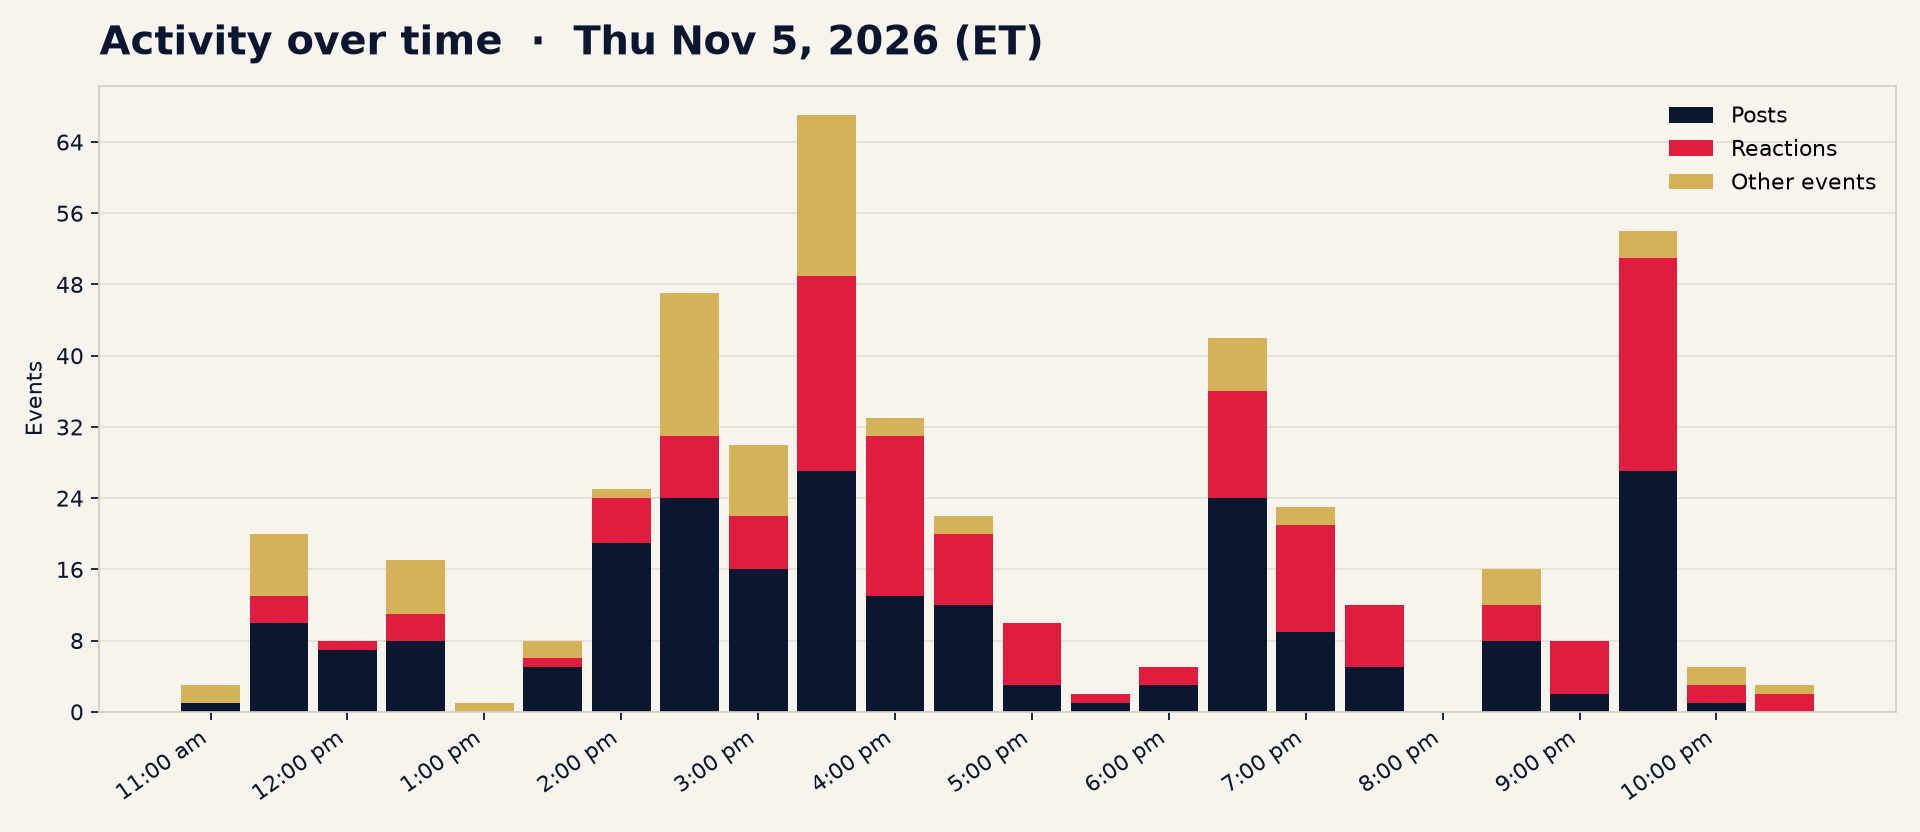
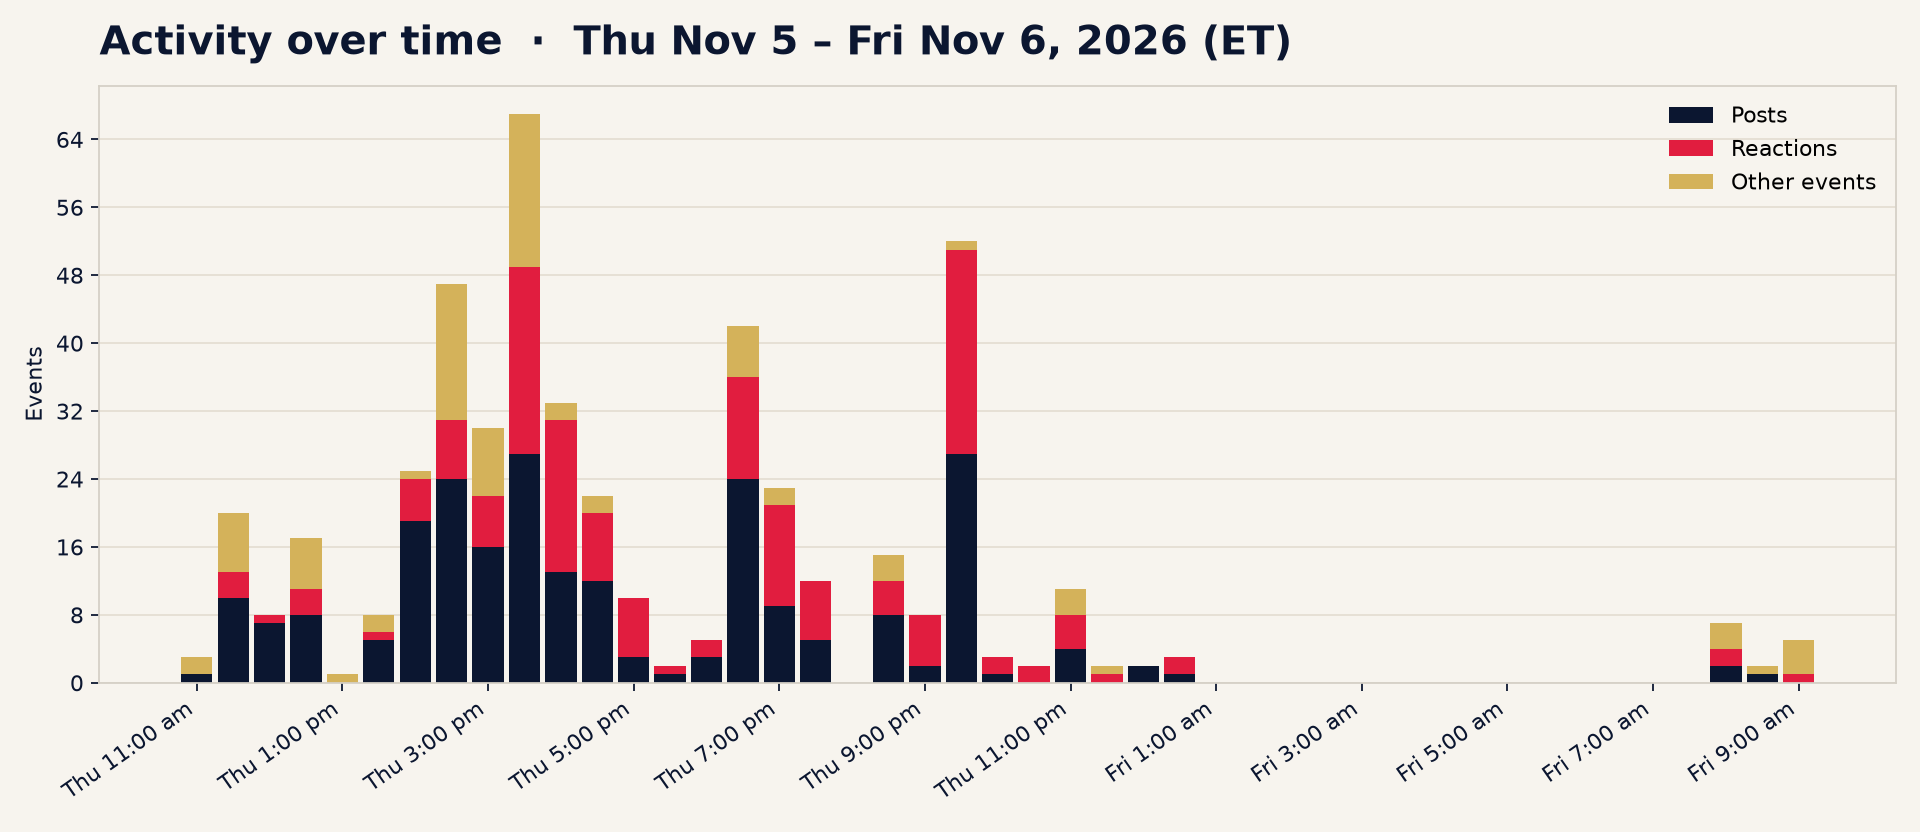
Refresh America Party recap through Friday morning Nov 6
Update the officers summary and charts from a full X Chat scrape
(487 events, 235 posts) while keeping the unchanged 13-plank draft.

diff --git a/america-party/index.html b/america-party/index.html
@@ -7,7 +7,7 @@
 <link rel="preconnect" href="https://fonts.gstatic.com" crossorigin>
 <link href="https://fonts.googleapis.com/css2?family=Archivo+Black&family=Manrope:wght@400;500;700;800&display=swap" rel="stylesheet">
 <title>America Party · Officers Recap</title>
-<meta name="description" content="America Party Officers X Chat recap — 13-plank platform draft, conversation summary, charts, and branding imagery from Thu Nov 5, 2026, 11:28 AM–10:34 PM ET.">
+<meta name="description" content="America Party Officers X Chat recap — 13-plank platform draft, conversation summary, charts, and branding imagery from Thu Nov 5, 11:28 AM ET through Fri Nov 6, 9:26 AM ET, 2026.">
 <meta property="og:type" content="website">
 <meta property="og:site_name" content="America Party">
 <meta property="og:url" content="https://titaniumtomp.github.io/america-party/">
@@ -234,31 +234,31 @@ footer::before{content:"";display:block;width:90px;height:4px;margin:0 auto 18px
   <section class="panel reveal" id="summary">
     <span class="eyebrow">Officers chat</span>
     <h2>Session summary</h2>
-    <p class="lede">America Party Officers is an X Chat group Ben (<a href="https://x.com/TeslaFamBen">@TeslaFamBen</a>) created Thu Nov 5, 2026 (11:28 AM–10:34 PM ET). Full thread read: <strong>461</strong> decrypted events, <strong>225</strong> substantive posts. Tone: energetic, informal, and collaborative.</p>
-    <div class="stats"><span class="chip red">Thu · Nov 5, 2026</span><span class="chip"><strong>461</strong> events</span><span class="chip"><strong>225</strong> posts</span><span class="chip">11:28 AM–10:34 PM ET</span></div>
-    <p>Ben opened the session and kept branding, civic-idea, and later tax-and-spending threads moving. Tim (<a href="https://x.com/RetiredYoungNW">@RetiredYoungNW</a>) brought logo concepts, a living platform draft, and an evening Google Doc compiling the group’s thoughts. Devo (<a href="https://x.com/DevoFlyer">@DevoFlyer</a>) pushed unity and statesmanship, and later a clear-eyed take on the deficit. Tom (<a href="https://x.com/TitaniumTomP">@TitaniumTomP</a>) pressed for a plan and wired the scrape-to-webpage workflow. Jason (<a href="https://x.com/bauminater">@bauminater</a>) contributed healthcare, term limits, and poster designs. Grok helped draft in-chat. Myron (<a href="https://x.com/CyberAmped">@CyberAmped</a>) and Jennifer (<a href="https://x.com/j_grieshaber">@j_grieshaber</a>) also posted.</p>
+    <p class="lede">America Party Officers is an X Chat group Ben (<a href="https://x.com/TeslaFamBen">@TeslaFamBen</a>) created Thu Nov 5, 2026. Full thread read through Fri Nov 6, 9:26 AM ET: <strong>487</strong> decrypted events, <strong>235</strong> substantive posts. Tone: energetic, informal, and collaborative.</p>
+    <div class="stats"><span class="chip red">Thu–Fri · Nov 5–6, 2026</span><span class="chip"><strong>487</strong> events</span><span class="chip"><strong>235</strong> posts</span><span class="chip">11:28 AM Thu–9:26 AM Fri ET</span></div>
+    <p>Ben opened the session and kept branding, civic-idea, and later tax-and-spending threads moving. Tim (<a href="https://x.com/RetiredYoungNW">@RetiredYoungNW</a>) brought logo concepts, a living platform draft, and Google Docs that catch the group’s thoughts. Devo (<a href="https://x.com/DevoFlyer">@DevoFlyer</a>) pushed unity and statesmanship, later a clear-eyed take on the deficit, and checked in Friday morning before a Red Cross volunteer shift. Tom (<a href="https://x.com/TitaniumTomP">@TitaniumTomP</a>) pressed for a plan, wired the scrape-to-webpage workflow, and framed the recap as a working dashboard of ideas for the group. Jason (<a href="https://x.com/bauminater">@bauminater</a>) contributed healthcare, term limits, and poster designs, and cheered the overnight recap. Grok helped draft in-chat. Myron (<a href="https://x.com/CyberAmped">@CyberAmped</a>) and Jennifer (<a href="https://x.com/j_grieshaber">@j_grieshaber</a>) also posted.</p>
     <h3 class="sub">Main threads</h3>
     <ul class="threads">
       <li class="card"><strong>Branding &amp; slogans</strong><span>Tim shared logo and header concepts. Ben posted a red-white-and-blue eagle with a purple shield, meant to blend the two major parties; Tim later said he liked it, and Ben called it a temporary logo they can refine. Jason shared a “Free to Succeed. Fair for All.” poster and a later tweak. Slogan tries included “The party that brings people together,” “One country. Core values. Term limits.,” “One Country. Abundance for All.,” “Free to succeed. Fair for all.,” and “Personal Freedom, Shared Prosperity.” No slogan was chosen.</span></li>
       <li class="card"><strong>Principles &amp; platform</strong><span>Shared starting points: clean energy, domestic manufacturing, constitutional rights, fiscal responsibility, and unity. Devo asked for statesmanship, working across the aisle, and respect in disagreement; Tim agreed on respect but said core values should not be compromised. Jason asked that healthcare be in the draft (Tim said he added it) and called term limits non-negotiable. Others backed term limits, fair pay with controls, and no insider trading in Congress.</span></li>
       <li class="card"><strong>Immigration &amp; civic ideas</strong><span>Devo suggested a competitive legal pathway to citizenship with yearly job-category quotas. Jason supported legal immigration and thought competition could help. Ben favored faster tracks for entrepreneurs and hard workers, with later check-ins. Serious crime was discussed as jail and/or deportation. A later idea was nationwide voter ID. None of these were adopted.</span></li>
       <li class="card"><strong>Tax &amp; spending</strong><span>In the evening Ben sketched a broader tax-reform idea: equal federal tax treatment across states, a goods purchase tax, the same registration rules, ending property tax, no tax on already-taxed used items, no Social Security or pension tax, and no tax on assets after retirement. Jason joked about no tax on tips. The group talked about stopping excessive spending, applying a DOGE-style mandate at every level of government, and how hard it will be to balance the budget while debt exceeds GDP. Devo noted the last surplus was about twenty years ago and brief. Tim said if the goal is to save America, spending has to come under control even though it is hard. None of this was adopted.</span></li>
-      <li class="card"><strong>Tooling</strong><span>Tom’s America Party bot scrapes this chat and republishes the GitHub Pages recap, pulling Tim’s latest draft. In the evening Tim shared a Google Doc compiling the group’s thoughts and pinned it alongside the live draft page. Grok can draft in-chat but cannot publish the site itself.</span></li>
+      <li class="card"><strong>Tooling</strong><span>Tom’s America Party bot scrapes this chat and republishes the GitHub Pages recap, pulling the latest draft. Thursday evening Tim shared a Google Doc compiling the group’s thoughts and pinned it alongside the live draft page. Overnight Tom circulated the recap and called it a working dashboard of ideas — handy for visualizing the conversation, not a finished public launch. Friday morning Tim pinned another Google Doc titled “The platform.” The live America First draft page still shows the same thirteen planks. Grok can draft in-chat but cannot publish the site itself.</span></li>
     </ul>
   </section>
 
   <section class="panel reveal" id="charts">
     <span class="eyebrow">Data</span>
     <h2>Charts</h2>
-    <p class="mut">Activity from the Nov 5 officers session, 11:28 AM through 10:34 PM ET.</p>
+    <p class="mut">Activity from the officers session, Thu Nov 5, 11:28 AM through Fri Nov 6, 9:26 AM ET.</p>
     <div class="charts grid-2">
       <figure class="chart card">
         <img src="assets/activity-over-time.png" alt="Activity over time chart for America Party Officers chat" loading="lazy" width="1920" height="832">
-        <figcaption>Activity over time — messages, reactions, and other events across the Nov 5 session (ET)</figcaption>
+        <figcaption>Activity over time — messages, reactions, and other events from Thu Nov 5 through Fri morning, Nov 6 (ET)</figcaption>
       </figure>
       <figure class="chart card">
         <img src="assets/top-posters.png" alt="Top posters chart" loading="lazy" width="1600" height="832">
-        <figcaption>Top posters — who carried the conversation (225 substantive posts)</figcaption>
+        <figcaption>Top posters — who carried the conversation (235 substantive posts)</figcaption>
       </figure>
       <figure class="chart card">
         <img src="assets/topic-breakdown.png" alt="Topic breakdown chart" loading="lazy" width="1600" height="864">
@@ -296,6 +296,7 @@ footer::before{content:"";display:block;width:90px;height:4px;margin:0 auto 18px
     <h2>Action items</h2>
     <ul class="actions">
       <li class="card">Keep iterating Tim’s living platform draft — healthcare is among the thirteen planks; the draft is not adopted.</li>
+      <li class="card">Look over the Google Doc Tim pinned Friday morning, titled “The platform,” alongside the public draft page.</li>
       <li class="card">Collect branding feedback on Ben’s purple-heart eagle (called temporary), Tim’s logo concept, and Jason’s poster tweak.</li>
       <li class="card">Narrow slogan options; several proposals, no pick yet.</li>
       <li class="card">Continue discussing open ideas on legal immigration, term limits, voter ID, and tax and spending — none adopted.</li>
